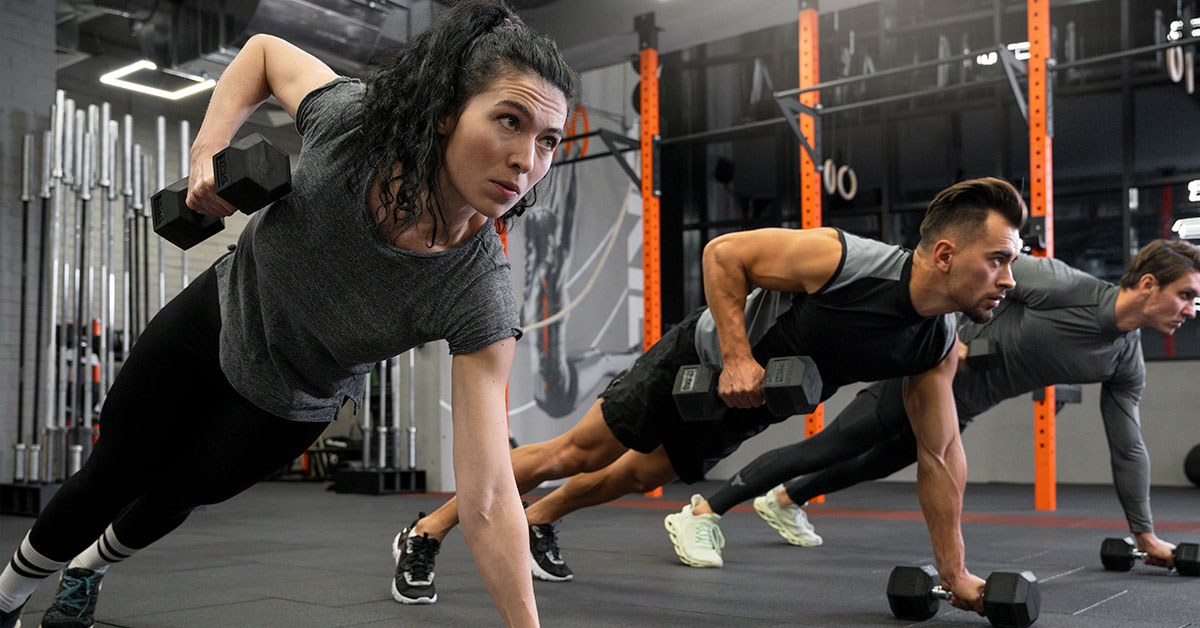
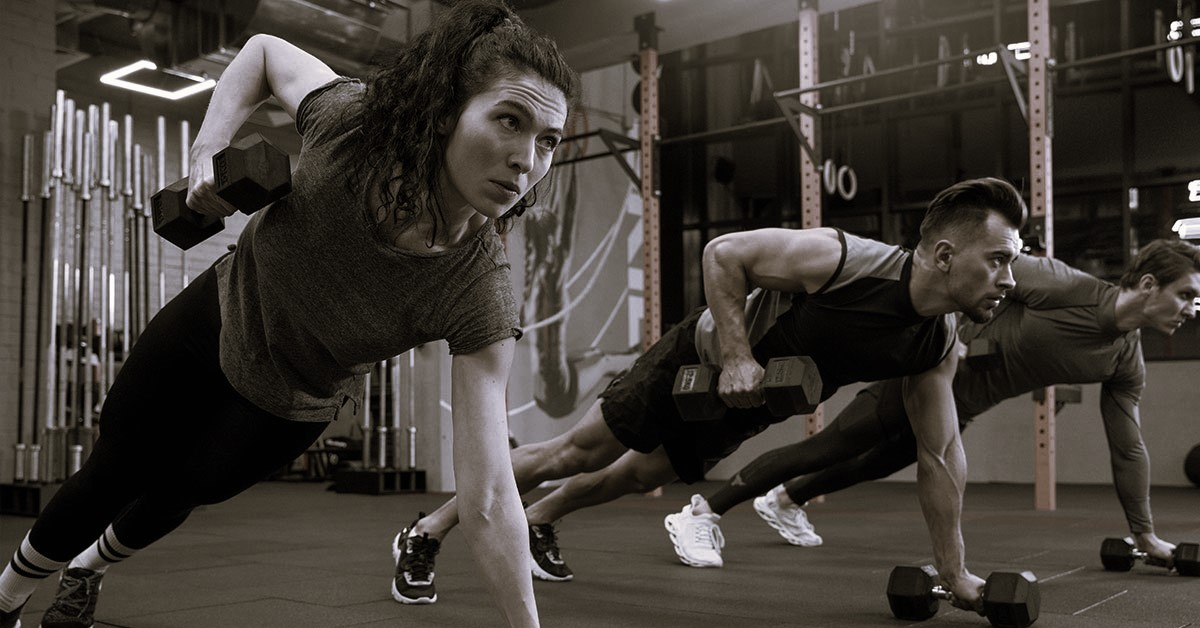
changes

diff --git a/index.css b/index.css
@@ -9,6 +9,8 @@
 
 body {
   overflow-x: hidden;
+  z-index: -323123312;
+  position: relative;
 }
 
 :root {
@@ -19,7 +21,7 @@ body {
 }
 
 .centro {
-  max-width: 1280px;
+  max-width: 1220px;
   margin: 0 auto;
 }
 
@@ -56,7 +58,6 @@ header .centro nav {
   display: flex;
   column-gap: 50px;
   align-items: center;
-  margin-right: -25px;
 }
 
 header .centro nav a {
@@ -130,15 +131,7 @@ header .centro nav .userDiv .username {
   flex-direction: column;
   align-items: center;
   justify-content: center;
-}
-
-.start img {
-  height: 800px;
-  width: 100%;
-  object-fit: cover;
-  filter: grayscale(1);
   position: relative;
-  z-index: -1;
 }
 
 .start .text .title {
@@ -183,6 +176,7 @@ header .centro nav .userDiv .username {
   border: none;
   cursor: pointer;
   transition: transform 0.4s ease-in-out;
+  position: relative;
 }
 
 .start .text .planos:hover,
@@ -695,7 +689,7 @@ header .centro nav .userDiv .username {
   flex-direction: column;
   align-items: center;
   background-color: #050505;
-  padding: 50px 40px;
+  padding: 40px 40px;
   border-radius: 30px 0px 30px 0;
   border-top: 8px solid #1a1a1a;
   border-left: 8px solid #1a1a1a;
@@ -726,7 +720,7 @@ header .centro nav .userDiv .username {
 }
 
 .form .formulario .imgContent {
-  height: 754px;
+  height: 744px;
   width: 60%;
   object-fit: cover;
 }
@@ -763,7 +757,7 @@ header .centro nav .userDiv .username {
 }
 
 .form .formulario .formContent .formBtn {
-  padding: 17px 17px;
+  padding: 12px 5px;
   color: #050505;
   text-align: center;
   font-family: Nunito Sans;

diff --git a/index.html b/index.html
@@ -360,7 +360,7 @@
                             fill="#EBBA34" />
                     </svg>
 
-                    <p class="serviceDesc">Alcance seus objetivos com acompanhamento dedicado do personal trainer</p>
+                    <p class="serviceDesc">Alcance seus objetivos com acompanhamento dedicado do Personal Trainer apenas para você</p>
                 </div>
 
             </div>
